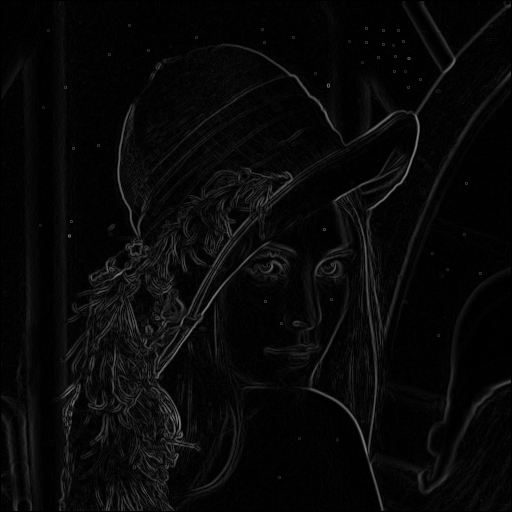
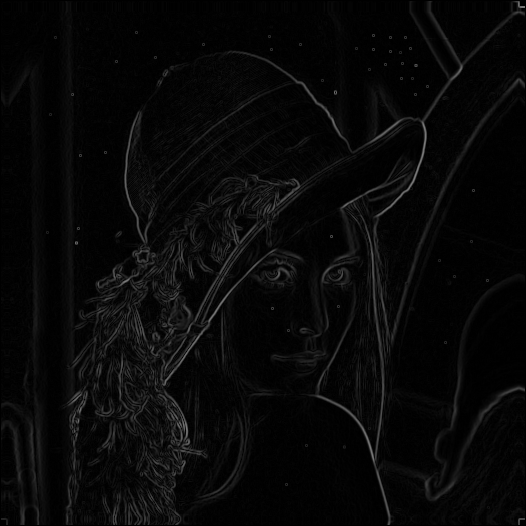
new reflection image

diff --git a/Sobel/src/sobel/Main.java b/Sobel/src/sobel/Main.java
@@ -4,7 +4,7 @@ import java.io.IOException;
 
 public class Main {
 
-    private static final String sInput = "src/image/Lenna.png";   
+    private static final String sInput = "src/image/reflection.png";   
     
     /*--------------------------------------------------------------------------------------------*/
     public static void main(String[] args) throws IOException {
